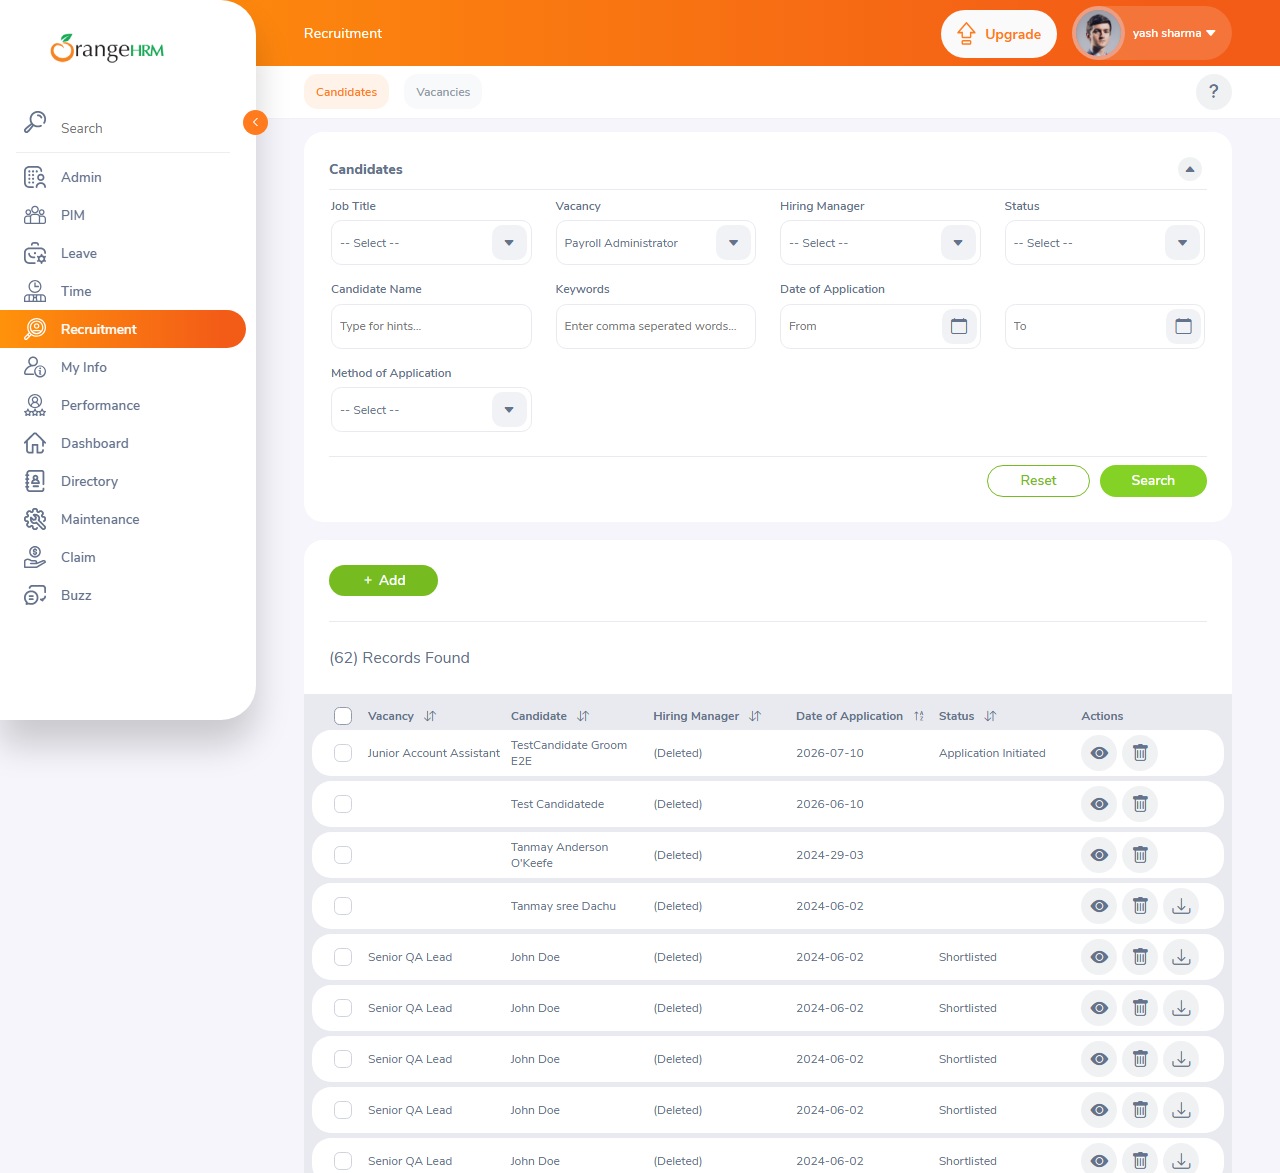
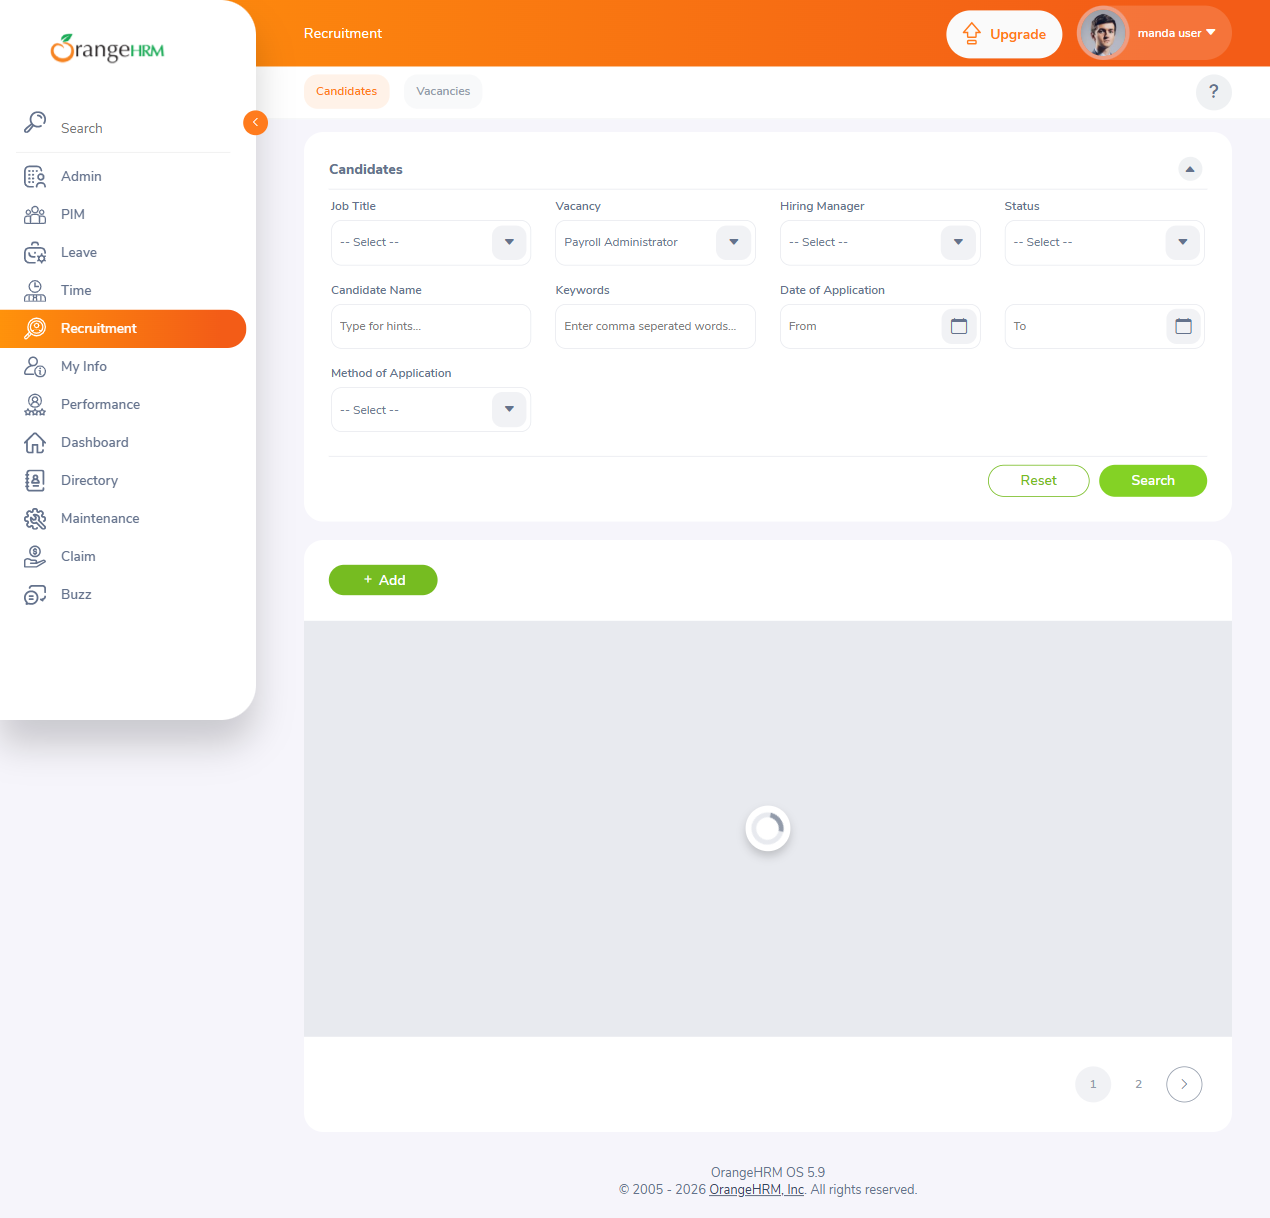
subindo

diff --git a/playwright-report/index.html b/playwright-report/index.html
@@ -46,4 +46,4 @@ Error generating stack: `+e.message+`
     <div id='root'></div>
   </body>
 </html>
[2 lines of base64/hex data omitted]

diff --git a/pages/candidates-page.ts b/pages/candidates-page.ts
@@ -17,32 +17,42 @@ export class CandidatesPage {
     .filter({ hasText: "Vacancy" })
     .locator(".oxd-select-text");
 
+  private readonly methodApplicationSelect = this.page
+    .locator(".oxd-input-group")
+    .filter({ hasText: "Method of Application" })
+    .locator(".oxd-select-text");
+
   private readonly searchButton = this.page.getByRole("button", {
     name: "Search",
   });
 
   private readonly resultsTable = this.page.locator(".oxd-table");
 
-  // Acessa a tela de Candidates
   async acessar(): Promise<void> {
     await this.recruitmentMenu.click();
     await this.candidatesMenu.click();
   }
 
-  // Seleciona uma vaga
-  async selecionarVacancy(vacancy: string): Promise<void> {
-    await this.vacancySelect.click();
-    await this.page.getByText(vacancy, { exact: true }).click();
+ async selecionarVacancy(vacancy: string): Promise<void> {
+  await this.vacancySelect.click();
+
+  const option = this.page
+    .locator(".oxd-select-dropdown")
+    .getByText(vacancy, { exact: true });
+
+  await option.click();
+}
+
+  async selecionarMethodOfApplication(method: string): Promise<void> {
+    await this.methodApplicationSelect.click();
+    await this.page.getByText(method, { exact: true }).click();
   }
 
-  // Executa a pesquisa
   async pesquisar(): Promise<void> {
     await this.searchButton.click();
   }
 
-  // Valida se a tabela de resultados foi carregada
   async validarResultados(): Promise<void> {
     await expect(this.resultsTable).toBeVisible();
   }
 }
-

diff --git a/pages/login-page.ts b/pages/login-page.ts
@@ -3,27 +3,31 @@ import { expect, Page } from "@playwright/test";
 export class LoginPage {
   constructor(private readonly page: Page) {}
 
-  // Elementos da tela de login
+  // Campo de usuário
   private readonly usernameInput =
     this.page.locator('input[name="username"]');
 
+  // Campo de senha
   private readonly passwordInput =
     this.page.locator('input[name="password"]');
 
+  // Botão de login
   private readonly loginButton =
     this.page.locator('button[type="submit"]');
 
+  // Título do Dashboard após o login
   private readonly dashboardTitle =
     this.page.locator("h6", {
       hasText: "Dashboard",
     });
 
-  // Acessa a tela de login
+  // Acessa a tela de login e aguarda o campo de usuário
   async acessar(): Promise<void> {
     await this.page.goto("/web/index.php/auth/login");
+    await this.usernameInput.waitFor({ state: "visible" });
   }
 
-  // Realiza login com as credenciais informadas
+  // Preenche as credenciais e realiza o login
   async realizarLogin(
     username: string,
     password: string

diff --git a/tests/candidates-method.spec.ts b/tests/candidates-method.spec.ts
@@ -1,0 +1,38 @@
+import { test } from "@playwright/test";
+import { LoginPage } from "../pages/login-page";
+import { CandidatesPage } from "../pages/candidates-page";
+
+const USUARIO_VALIDO = "Admin";
+const SENHA_VALIDA = "admin123";
+
+test.describe("Candidates - Method of Application", () => {
+
+  test("Deve pesquisar candidatos por Method of Application", async ({ page }) => {
+
+    const loginPage = new LoginPage(page);
+    const candidatesPage = new CandidatesPage(page);
+
+    await loginPage.acessar();
+
+    await loginPage.realizarLogin(
+      USUARIO_VALIDO,
+      SENHA_VALIDA
+    );
+
+    await loginPage.validarDashboard();
+
+    await candidatesPage.acessar();
+
+    await candidatesPage.selecionarMethodOfApplication("Manual");
+
+    await candidatesPage.pesquisar();
+
+    await candidatesPage.validarResultados();
+
+    await page.screenshot({
+      path: "evidence/candidates/candidates-method-manual.png",
+      fullPage: true,
+    });
+  });
+
+});
